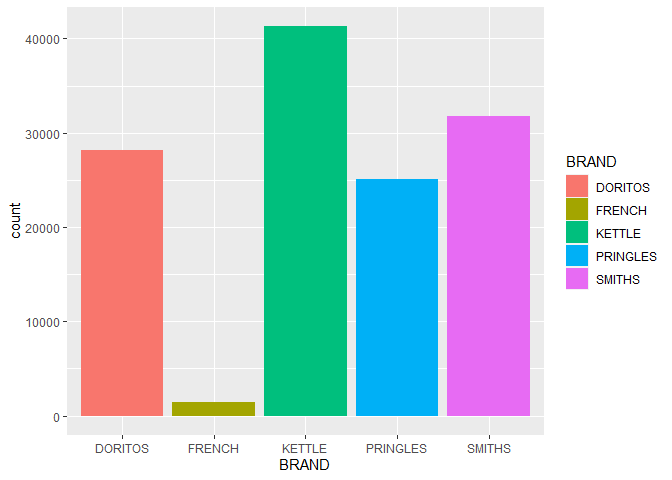
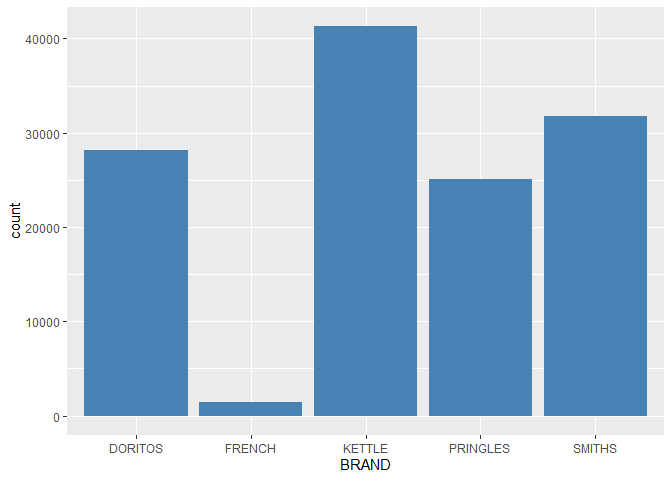
I'm making changes in the project.

diff --git a/task2.md b/task2.md
@@ -1,7 +1,7 @@
 Experimentation and uplift testing
 ================
 Jose Alberto
-29/06/2021
+03/11/2021
 
 ``` r
 rm(list=ls(all=TRUE))
@@ -21,7 +21,7 @@ library(openxlsx)
 library(lubridate)
 library(ggplot2)
 library(GGally)
-library(fpp)
+library(fpp2)
 library(stats)
 library(fastcluster)
 ```
@@ -1261,7 +1261,7 @@ chips_brand <- customers_chips_brand_dataset[
 
 ``` r
 ggplot(data = chips_brand) + 
-  geom_bar( mapping = aes(x= BRAND, fill=BRAND))
+  geom_bar( mapping = aes(x= BRAND), fill="steelblue")
 ```
 
 ![](task2_files/figure-gfm/unnamed-chunk-13-1.png)<!-- -->
@@ -1269,7 +1269,7 @@ ggplot(data = chips_brand) +
 Density plot
 
 ``` r
-ggplot(chips_brand, aes(x=TOT_SALES, fill=BRAND, colour=BRAND ))+
+ggplot(chips_brand, aes(x=TOT_SALES, fill=BRAND))+
   geom_density(alpha = 0.5)
 ```
 
@@ -1278,34 +1278,34 @@ ggplot(chips_brand, aes(x=TOT_SALES, fill=BRAND, colour=BRAND ))+
 Density plot of the log10
 
 ``` r
-ggplot(chips_brand, aes(x=log10(TOT_SALES), fill=BRAND, colour=BRAND ))+
+ggplot(chips_brand, aes(x=log10(TOT_SALES), fill=BRAND))+
   geom_density(alpha = 0.5)
 ```
 
 ![](task2_files/figure-gfm/unnamed-chunk-15-1.png)<!-- -->
 
 ``` r
-customers_chips_brand_dataset2 <- customers_chips_brand_dataset %>% 
+customers_chips_brand_dataset02 <- customers_chips_brand_dataset %>% 
   select(PROD_QTY,TOT_SALES,BRAND)
 ```
 
 Changing row names
 
 ``` r
-row.names(customers_chips_brand_dataset2) <- paste(customers_chips_brand_dataset2$BRAND, 1:nrow(customers_chips_brand_dataset2))
+row.names(customers_chips_brand_dataset02) <- paste(customers_chips_brand_dataset02$BRAND, 1:nrow(customers_chips_brand_dataset02))
 ```
 
 Removing column
 
 ``` r
-customers_chips_brand_dataset2 <- select(customers_chips_brand_dataset2, -BRAND)
+customers_chips_brand_dataset02 <- select(customers_chips_brand_dataset02, -BRAND)
 ```
 
 Selecting 1000 samples
 
 ``` r
-customers_chips_brand_dataset2 <- 
-  customers_chips_brand_dataset2 %>% slice(1:1000)
+customers_chips_brand_dataset02 <- 
+  customers_chips_brand_dataset02 %>% slice(1:1000)
 ```
 
 Standardization According to various studies , clustering with
@@ -1313,13 +1313,13 @@ standardized attributes results into better cluster output compared to
 non standardized values
 
 ``` r
-customers_chips_brand_dataset2_scaled <- scale(customers_chips_brand_dataset2)
+customers_chips_brand_dataset02_scaled <- scale(customers_chips_brand_dataset02)
 ```
 
 Implements hierarchical clustering with Euclidean distance
 
 ``` r
-hc.complete <- fastcluster::hclust(dist(customers_chips_brand_dataset2_scaled),
+hc.complete <- fastcluster::hclust(dist(customers_chips_brand_dataset02_scaled),
                                    method="complete")
 ```
 
